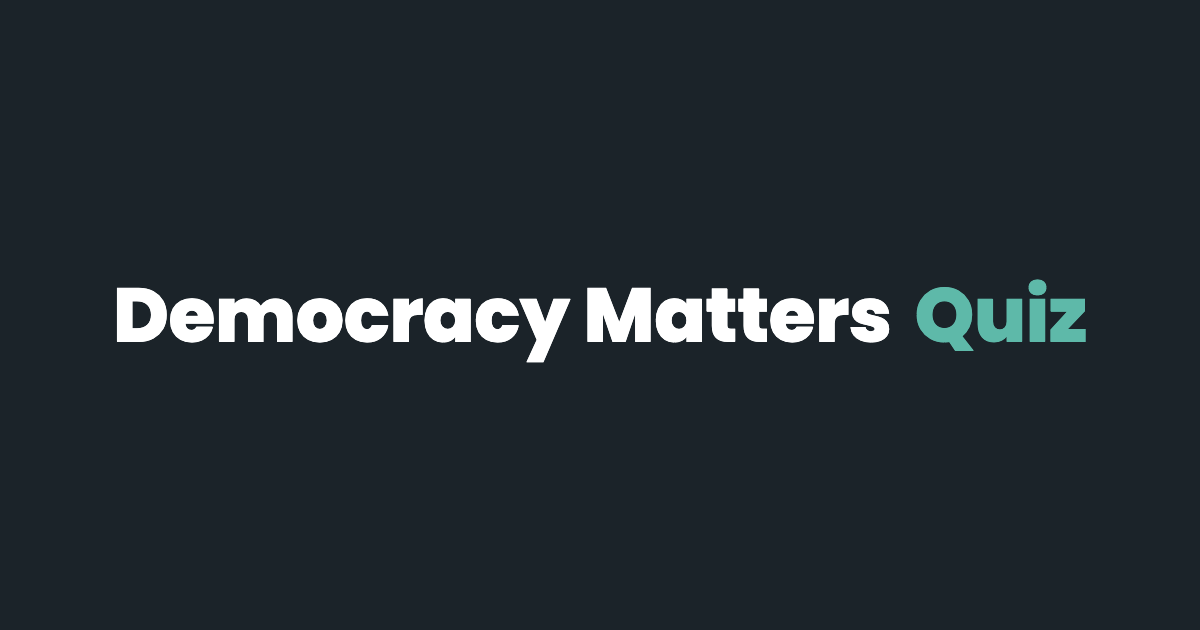
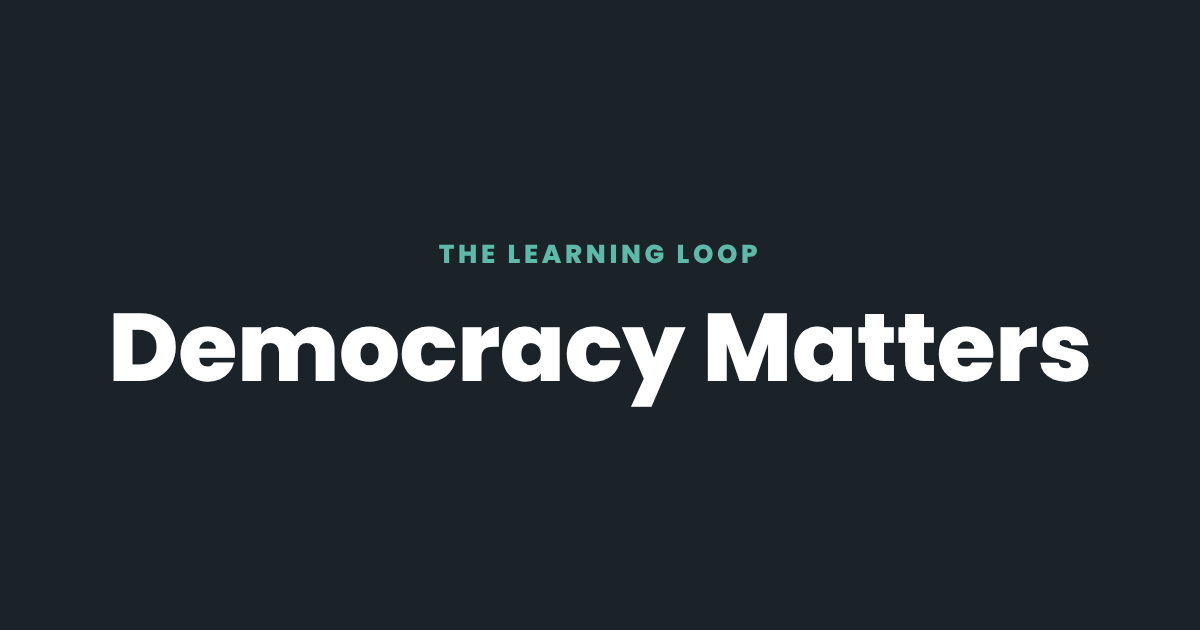
Name the site «Democracy Matters», not «Democracy Matters Quiz»; tab title per language (#29)
dmatters.org is the whole Democracy Matters site now (sessions, slides,
quiz), but the tab and every link preview still said «Democracy Matters
Quiz», and the participant pages kept their German tab title on EN/FR/IT.

- src/template.html: <title>, og:title and new twitter:title «Democracy
  Matters»; og:image:alt «Democracy Matters · The Learning Loop»;
  og:description describes the site; og:image points at dmatters.org.
  The tab title now follows the page and the language at runtime:
  «Democracy Matters», «Wahlen — Democracy Matters», «Quiz · Elections —
  Democracy Matters», «My DM — …», «Daily lesson — …». «Quiz» stays only
  where it names the game (game screens, their teal wordmark word).
- assets/img/og.png: re-rendered without «Quiz»: teal kicker THE LEARNING
  LOOP over «Democracy Matters» in Poppins ExtraBold on #1B2329. No mark.
- content/{elections,bypassing,gewaltenteilung-ch}.html: the language tabs
  set the tab title from that language's h1; DE keeps the page's <title>.
  The golden page carries it, so new-topic scaffolds inherit it.
- docs/design-tokens.md: one rule for the site name.
- index.html: rebuilt (npm run build).

Rafa, 05.11.2026: «why is this still called DM quizz? https://dmatters.org»

Claude-Session: https://claude.ai/code/session_015fcUwcpQEMrPjM6RVHbF8r

Changed region(s): [[0.0925, 0.4524, 0.925, 0.6635], [0.37, 0.3921, 0.6475, 0.4222]]

diff --git a/index.html b/index.html
@@ -4,18 +4,21 @@
 <meta charset="utf-8">
 <meta name="viewport" content="width=device-width, initial-scale=1, viewport-fit=cover">
 <meta name="theme-color" content="#1B2329">
-<title>Democracy Matters Quiz</title>
+<title>Democracy Matters</title>
 <!-- Open Graph for link previews (WhatsApp, iMessage, Slack). Must stay above the
      inlined fonts: scrapers read only the first part of the file. No og:url on
      purpose — session links carry ?session=…, and these tags describe the app as
-     a whole. assets/img/og.png is the wordmark on the dark ground. -->
+     a whole. assets/img/og.png is the wordmark on the dark ground. The site is
+     Democracy Matters (sessions, slides, quiz); «Quiz» names only the game. The
+     tab title follows the page and the language at runtime (syncTitle below). -->
 <meta property="og:type" content="website">
-<meta property="og:title" content="Democracy Matters Quiz">
-<meta property="og:description" content="Live session quiz for Democracy Matters: scan the QR code, join from your phone and answer together with the room.">
-<meta property="og:image" content="https://tigerraph.github.io/dm-quiz/assets/img/og.png">
+<meta property="og:title" content="Democracy Matters">
+<meta property="og:description" content="Democracy Matters, the Learning Loop: sessions, slides and the live quiz. Scan the QR code and join from your phone.">
+<meta property="og:image" content="https://dmatters.org/assets/img/og.png">
 <meta property="og:image:width" content="1200">
 <meta property="og:image:height" content="630">
-<meta property="og:image:alt" content="Democracy Matters Quiz">
+<meta property="og:image:alt" content="Democracy Matters · The Learning Loop">
+<meta name="twitter:title" content="Democracy Matters">
 <meta name="twitter:card" content="summary_large_image">
 <style>
[1 lines of base64/hex data omitted]
@@ -2866,7 +2869,7 @@ var qrcode = function() {
 <script>
 "use strict";
 /* ==================================================================
-   dm-quiz — Democracy Matters Quiz
+   dm-quiz — the Democracy Matters site (start page, session pages, quiz)
 
    Two modes:
      LIVE  — host-driven, Kahoot-style. The host view owns the game
@@ -3457,7 +3460,7 @@ function fail(key){ phase="error"; errKey=key; renderError(); }
 function renderError(){
   const big = errKey==="hostNeedsDb";
   app.innerHTML = `<div class="screen">
-    ${wordmarkHtml()}
+    ${wordmarkHtml("", "")}
     <h1>${esc(big ? t().hostNeedsDb : t().noSession)}</h1>
     <div class="err">${esc(big ? t().hostNeedsDbSub : t()[errKey] || "")}</div>
   </div>`;
@@ -3465,8 +3468,10 @@ function renderError(){
 /* The star screens are Curriculum, not Quiz — the passport outlives any
    single quiz session. */
 function wordmarkHtml(cls, word){
+  // word "" = the site itself («Democracy Matters», e.g. the error screen); undefined = the game
+  const w = word === undefined ? t().quiz : word;
   return `<div class="kicker ${cls||""}"><span class="wordmark">`
-       + `${esc(t().brand)} <span class="wm2">${esc(word||t().quiz)}</span></span></div>`;
+       + `${esc(t().brand)}${w ? ` <span class="wm2">${esc(w)}</span>` : ""}</span></div>`;
 }
 
 function langPills(){
@@ -5852,6 +5857,26 @@ function rerender(){
   else if(phase==="reveal") LIVE ? paintPlayerReveal() : renderSoloReveal();
   else if(phase==="done") LIVE ? renderPlayerDone() : renderSoloDone();
 }
+
+/* ---------------- tab title ----------------
+   The site is «Democracy Matters»; «Quiz» names only the game. The tab title
+   follows the page and the current language, so the English page never keeps
+   a German title. Every render writes #app, so watching it covers every view
+   and every language switch without touching each renderer. */
+const GAME_PHASES = ["join","lobby","question","locked","reveal","done","review","kicked"];
+function pageTitle(){
+  const brand = t().brand;
+  const topic = id => (id && registry && registry[id] && typeof registry[id].title === "object") ? L(registry[id].title) : "";
+  const sub = (phase === "site-session") ? topic(siteId)
+    : (phase === "passport" || phase === "claim") ? t().myDM
+    : phase.startsWith("daily") ? t().daily
+    : (SESSION && (HOST || GAME_PHASES.includes(phase)))
+      ? [t().quiz, topic(SESSION)].filter(Boolean).join(" · ")
+    : "";
+  return sub ? sub + " — " + brand : brand;
+}
+function syncTitle(){ const x = pageTitle(); if(document.title !== x) document.title = x; }
+new MutationObserver(syncTitle).observe(app, { childList:true });
 
 /* ---------------- audio engine (all synthesized, offline) ----------------
    Carried over unchanged from noeggi-kahoot, minus the bonus-unlock cue.

diff --git a/src/template.html b/src/template.html
@@ -4,18 +4,21 @@
 <meta charset="utf-8">
 <meta name="viewport" content="width=device-width, initial-scale=1, viewport-fit=cover">
 <meta name="theme-color" content="#1B2329">
-<title>Democracy Matters Quiz</title>
+<title>Democracy Matters</title>
 <!-- Open Graph for link previews (WhatsApp, iMessage, Slack). Must stay above the
      inlined fonts: scrapers read only the first part of the file. No og:url on
      purpose — session links carry ?session=…, and these tags describe the app as
-     a whole. assets/img/og.png is the wordmark on the dark ground. -->
+     a whole. assets/img/og.png is the wordmark on the dark ground. The site is
+     Democracy Matters (sessions, slides, quiz); «Quiz» names only the game. The
+     tab title follows the page and the language at runtime (syncTitle below). -->
 <meta property="og:type" content="website">
-<meta property="og:title" content="Democracy Matters Quiz">
-<meta property="og:description" content="Live session quiz for Democracy Matters: scan the QR code, join from your phone and answer together with the room.">
-<meta property="og:image" content="https://tigerraph.github.io/dm-quiz/assets/img/og.png">
+<meta property="og:title" content="Democracy Matters">
+<meta property="og:description" content="Democracy Matters, the Learning Loop: sessions, slides and the live quiz. Scan the QR code and join from your phone.">
+<meta property="og:image" content="https://dmatters.org/assets/img/og.png">
 <meta property="og:image:width" content="1200">
 <meta property="og:image:height" content="630">
-<meta property="og:image:alt" content="Democracy Matters Quiz">
+<meta property="og:image:alt" content="Democracy Matters · The Learning Loop">
+<meta name="twitter:title" content="Democracy Matters">
 <meta name="twitter:card" content="summary_large_image">
 <style>
 __FONTS__
@@ -407,7 +410,7 @@ __QRCODE__
 <script>
 "use strict";
 /* ==================================================================
-   dm-quiz — Democracy Matters Quiz
+   dm-quiz — the Democracy Matters site (start page, session pages, quiz)
 
    Two modes:
      LIVE  — host-driven, Kahoot-style. The host view owns the game
@@ -998,7 +1001,7 @@ function fail(key){ phase="error"; errKey=key; renderError(); }
 function renderError(){
   const big = errKey==="hostNeedsDb";
   app.innerHTML = `<div class="screen">
-    ${wordmarkHtml()}
+    ${wordmarkHtml("", "")}
     <h1>${esc(big ? t().hostNeedsDb : t().noSession)}</h1>
     <div class="err">${esc(big ? t().hostNeedsDbSub : t()[errKey] || "")}</div>
   </div>`;
@@ -1006,8 +1009,10 @@ function renderError(){
 /* The star screens are Curriculum, not Quiz — the passport outlives any
    single quiz session. */
 function wordmarkHtml(cls, word){
+  // word "" = the site itself («Democracy Matters», e.g. the error screen); undefined = the game
+  const w = word === undefined ? t().quiz : word;
   return `<div class="kicker ${cls||""}"><span class="wordmark">`
-       + `${esc(t().brand)} <span class="wm2">${esc(word||t().quiz)}</span></span></div>`;
+       + `${esc(t().brand)}${w ? ` <span class="wm2">${esc(w)}</span>` : ""}</span></div>`;
 }
 
 function langPills(){
@@ -2509,6 +2514,26 @@ function rerender(){
   else if(phase==="reveal") LIVE ? paintPlayerReveal() : renderSoloReveal();
   else if(phase==="done") LIVE ? renderPlayerDone() : renderSoloDone();
 }
+
+/* ---------------- tab title ----------------
+   The site is «Democracy Matters»; «Quiz» names only the game. The tab title
+   follows the page and the current language, so the English page never keeps
+   a German title. Every render writes #app, so watching it covers every view
+   and every language switch without touching each renderer. */
+const GAME_PHASES = ["join","lobby","question","locked","reveal","done","review","kicked"];
+function pageTitle(){
+  const brand = t().brand;
+  const topic = id => (id && registry && registry[id] && typeof registry[id].title === "object") ? L(registry[id].title) : "";
+  const sub = (phase === "site-session") ? topic(siteId)
+    : (phase === "passport" || phase === "claim") ? t().myDM
+    : phase.startsWith("daily") ? t().daily
+    : (SESSION && (HOST || GAME_PHASES.includes(phase)))
+      ? [t().quiz, topic(SESSION)].filter(Boolean).join(" · ")
+    : "";
+  return sub ? sub + " — " + brand : brand;
+}
+function syncTitle(){ const x = pageTitle(); if(document.title !== x) document.title = x; }
+new MutationObserver(syncTitle).observe(app, { childList:true });
 
 __AUDIO__
 

diff --git a/content/bypassing.html b/content/bypassing.html
@@ -219,11 +219,15 @@
   <footer>Democracy Matters — The Learning Loop. Learn it. Keep it.</footer>
 </div>
 <script>
+  var TITLE_DE = document.title;
   function setLang(l){
     if(['de','en','fr','it'].indexOf(l) < 0) l = 'de';
     if(l === 'de') document.documentElement.removeAttribute('data-l');
     else document.documentElement.setAttribute('data-l', l);
     document.documentElement.setAttribute('lang', l);
+    // the tab title follows the language too (DE keeps the page's own <title>)
+    var h = document.querySelector('h1[lang-'+l+']');
+    document.title = (l === 'de' || !h) ? TITLE_DE : h.textContent.trim() + ' — Democracy Matters';
     ['de','en','fr','it'].forEach(function(x){
       document.getElementById('btn-'+x).classList.toggle('on', x === l);
     });

diff --git a/content/gewaltenteilung-ch.html b/content/gewaltenteilung-ch.html
@@ -263,11 +263,15 @@
   <footer>Democracy Matters — The Learning Loop. Learn it. Keep it.</footer>
 </div>
 <script>
+  var TITLE_DE = document.title;
   function setLang(l){
     if(['de','en','fr','it'].indexOf(l) < 0) l = 'de';
     if(l === 'de') document.documentElement.removeAttribute('data-l');
     else document.documentElement.setAttribute('data-l', l);
     document.documentElement.setAttribute('lang', l);
+    // the tab title follows the language too (DE keeps the page's own <title>)
+    var h = document.querySelector('h1[lang-'+l+']');
+    document.title = (l === 'de' || !h) ? TITLE_DE : h.textContent.trim() + ' — Democracy Matters';
     ['de','en','fr','it'].forEach(function(x){
       document.getElementById('btn-'+x).classList.toggle('on', x === l);
     });

diff --git a/content/elections.html b/content/elections.html
@@ -312,11 +312,15 @@
 </div>
 <script src="../slides/elections-results.js"></script>
 <script>
+  var TITLE_DE = document.title;
   function setLang(l){
     if(['de','en','fr','it'].indexOf(l) < 0) l = 'de';
     if(l === 'de') document.documentElement.removeAttribute('data-l');
     else document.documentElement.setAttribute('data-l', l);
     document.documentElement.setAttribute('lang', l);
+    // the tab title follows the language too (DE keeps the page's own <title>)
+    var h = document.querySelector('h1[lang-'+l+']');
+    document.title = (l === 'de' || !h) ? TITLE_DE : h.textContent.trim() + ' — Democracy Matters';
     ['de','en','fr','it'].forEach(function(x){
       document.getElementById('btn-'+x).classList.toggle('on', x === l);
     });

diff --git a/docs/design-tokens.md b/docs/design-tokens.md
@@ -40,6 +40,10 @@ base64-inlined at build, so there is no runtime font request.
 - **No logo.** Democracy Matters has no mark of its own. The round «dP» mark in
   the reference PDFs belongs to another organisation and never goes on a DM
   surface; the name set in Poppins ExtraBold is the wordmark.
+- **The site is «Democracy Matters».** Tab title, link preview (og:title,
+  og:image, twitter:title) and the site bar say only that, in every language.
+  «Quiz» stays in the teal second word on the quiz game's own screens, where
+  it names the game; the passport and the daily lesson put their own word there.
 
 - **A red had to be invented.** The palette has none, so a wrong answer uses
   `--wrong: #DB6A57`, a muted terracotta tuned to sit beside the green. It is
